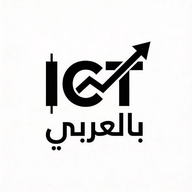
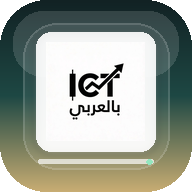
Add files via upload

diff --git a/smart-desk.html b/smart-desk.html
@@ -1,7 +1,9 @@
-<!doctype html><html lang="ar" dir="rtl"><head><meta charset="utf-8"><meta name="viewport" content="width=device-width, initial-scale=1"><meta name="theme-color" content="#111b20"><title>غرفة المتداول الذكية | ICT بالعربي</title><link rel="icon" href="icon-192.png"><link rel="stylesheet" href="smart-desk.css?v=5.4.0"><link rel="stylesheet" href="platform.css?v=5.4.0"><script defer src="platform.js?v=5.4.0"></script><link rel="stylesheet" href="unified-theme.css?v=6.8.5"><link rel="stylesheet" href="bento-glass.css?v=6.8.5"><script defer src="unified-theme.js?v=6.8.3"></script><link rel="stylesheet" href="design-consistency.css?v=6.8.6"><link rel="stylesheet" href="interaction-harmony.css?v=6.8.8"><link rel="stylesheet" href="light-contrast.css?v=6.8.11"></head>
+<!doctype html><html lang="ar" dir="rtl"><head><meta charset="utf-8"><meta name="viewport" content="width=device-width, initial-scale=1"><meta name="theme-color" content="#111b20"><title>غرفة المتداول الذكية | ICT بالعربي</title><link rel="icon" href="icon-192.png"><link rel="stylesheet" href="smart-desk.css?v=5.4.0"><link rel="stylesheet" href="platform.css?v=5.4.0"><script defer src="platform.js?v=5.4.0"></script><link rel="stylesheet" href="unified-theme.css?v=6.8.5"><link rel="stylesheet" href="bento-glass.css?v=6.8.5"><script defer src="unified-theme.js?v=6.8.3"></script><link rel="stylesheet" href="design-consistency.css?v=6.8.6"><link rel="stylesheet" href="interaction-harmony.css?v=6.8.8"><link rel="stylesheet" href="light-contrast.css?v=6.8.11"><link rel="stylesheet" href="ui-icons.css?v=6.8.15">
+</head>
 <body><header class="topbar"><a class="brand" href="./"><img src="logo-original.jpeg" alt="شعار ICT بالعربي"><span>ICT بالعربي <small>SMART TRADER DESK</small></span></a><a class="back" href="./">العودة إلى الرئيسية ←</a></header>
 <main class="wrap"><section class="hero"><span class="eyebrow">ICT بالعربي / PHASE FOUR</span><h1>غرفة المتداول الذكية</h1><p>تابع الأسواق والمنشورات، راجع أداء تداولك، وابحث في محتوى الموقع من مكان واحد.</p><div class="hero-pills"><span>لا تحتاج إلى حساب</span><span>خصوصية محلية لسجل الصفقات</span><span>مصادر المنشورات واضحة</span></div></section>
 <div class="tabs" role="tablist" aria-label="أدوات غرفة المتداول"><button class="active" data-tab="live" aria-selected="true" type="button">◉ غرفة المتابعة</button><button data-tab="dna" aria-selected="false" type="button">▥ Trader DNA</button><button data-tab="assistant" aria-selected="false" type="button">✦ المساعد البحثي</button></div>
 <section id="tab-live" class="tab-panel"><div class="section-heading"><div><span class="eyebrow">ICT LIVE DESK</span><h2>غرفة متابعة الأسواق</h2><p>ملخص من بيانات موقع ICT بالعربي المنشورة، مع تاريخ التحديث لكل مصدر.</p></div><button id="refresh-desk" class="outline" type="button">تحديث البيانات</button></div><div class="status" id="desk-status" role="status">جارٍ فحص مصادر البيانات…</div><div class="metrics" id="desk-metrics"></div><div class="desk-grid"><article class="panel"><div class="panel-title"><h3>أحدث التحليلات والتوصيات</h3><a href="./#recs">عرض الكل ↗</a></div><div id="latest-content" class="feed">جارٍ التحميل…</div></article><article class="panel"><div class="panel-title"><h3>الأخبار الاقتصادية القادمة</h3><a href="./#agenda">الأجندة ↗</a></div><div id="upcoming-events" class="feed">جارٍ التحميل…</div></article><article class="panel"><div class="panel-title"><h3>آخر الأخبار المنشورة</h3><a href="./#news">الأخبار ↗</a></div><div id="latest-news" class="feed">جارٍ التحميل…</div></article><article class="panel"><div class="panel-title"><h3>حركة الأسواق — لقطة دورية</h3><a href="./#markets">الأسواق ↗</a></div><div id="latest-movers" class="feed">جارٍ التحميل…</div></article></div><p class="notice">هذه الغرفة لا ترصد الأسعار Tick-by-Tick ولا ترسل توصيات تداول آلية. مصادر البيانات قد تتأخر؛ تحقق من وقت كل لقطة ومن رمز الأصل قبل اتخاذ القرار.</p></section>
 <section id="tab-dna" class="tab-panel" hidden><div class="section-heading"><div><span class="eyebrow">TRADER DNA</span><h2>بصمة أدائك كمتداول</h2><p>سجل صفقاتك بوحدة R، واكتشف كيف يتغير أداؤك باختلاف الأصل والجلسة والاستراتيجية.</p></div><div class="actions"><button type="button" class="outline" id="export-trades">تصدير CSV</button><button type="button" class="outline" id="backup-trades">نسخة JSON احتياطية</button><label class="upload">استيراد JSON<input type="file" id="import-trades" accept="application/json,.json" hidden></label></div></div><div class="journal-layout"><form id="trade-form" class="panel"><h3>إضافة صفقة إلى سجلي</h3><label>تاريخ الصفقة<input name="date" type="date" required></label><div class="two"><label>الأصل<select name="asset" required><option>XAUUSD</option><option>EURUSD</option><option>GBPUSD</option><option>USDJPY</option><option>NAS100</option><option>SP500</option><option>DJ30</option><option>BTCUSD</option><option>ETHUSD</option><option>WTI</option><option>OTHER</option></select></label><label>الجلسة<select name="session"><option>London</option><option>New York AM</option><option>New York PM</option><option>Asia</option><option>Other</option></select></label></div><div class="two"><label>الاستراتيجية<select name="strategy"><option>Liquidity Sweep + MSS + FVG</option><option>Silver Bullet</option><option>OTE</option><option>Order Block</option><option>Other</option></select></label><label>نتيجة الصفقة (R)<input name="r" type="number" step="0.01" min="-100" max="100" placeholder="مثال: -1 أو 2.5" required></label></div><label>ملاحظة اختيارية<textarea name="note" maxlength="300" rows="3" placeholder="هل التزمت بالخطة؟ ماذا تعلمت؟"></textarea></label><button class="primary" type="submit">حفظ الصفقة</button><p class="micro">احسب R بمقارنة ربح/خسارة الصفقة مع مبلغ المخاطرة المخطط له. لا تتضمن الأرقام تكاليف التداول إلا إذا احتسبتها أنت ضمن النتيجة.</p></form><div class="panel"><h3>تحليل الأداء</h3><div id="dna-metrics" class="metrics"></div><div id="dna-breakdown" class="breakdown"></div><div id="dna-insight" class="insight"></div></div></div><div class="panel"><div class="panel-title"><h3>سجل صفقاتي</h3><span class="muted">محفوظ على هذا الجهاز فقط</span></div><div class="table-wrap"><table><thead><tr><th>التاريخ</th><th>الأصل</th><th>الجلسة</th><th>الاستراتيجية</th><th>النتيجة</th><th></th></tr></thead><tbody id="trade-rows"></tbody></table></div></div><p class="notice">التحليلات وصفية، ولا تستنتج أفضل جلسة أو استراتيجية من عينة صغيرة باعتبارها أفضلية مؤكدة. لا يوجد ربط بالوسيط ولا مزامنة تلقائية بين الأجهزة.</p></section>
-<section id="tab-assistant" class="tab-panel" hidden><div class="section-heading"><div><span class="eyebrow">ICT RESEARCH SEARCH</span><h2>مساعد البحث في محتوى الموقع</h2><p>ابحث باللغة العربية عن أصل أو خبر أو تحليل أو توصية، وستظهر النتائج من ملفات الموقع نفسها.</p></div></div><div class="panel"><form id="search-form" class="searchform"><label class="grow">سؤالك أو كلمات البحث<input id="search-query" required minlength="2" maxlength="150" placeholder="مثال: أحدث تحليل للذهب، أو الأخبار الأمريكية القادمة"></label><button class="primary" type="submit">بحث</button></form><div class="examples"><button type="button" data-query="الذهب">الذهب</button><button type="button" data-query="NFP">NFP</button><button type="button" data-query="NAS100">ناسداك</button><button type="button" data-query="التوصيات">آخر التوصيات</button></div><div class="status" id="search-status">يبحث المساعد في البيانات المنشورة، ولا ينشئ توصيات أو توقعات من تلقاء نفسه.</div><div id="search-results" class="search-results"></div><p class="micro">هذه النسخة **بحث ذكي محلي** وليست روبوت محادثة توليديًا. لا ترسل أسئلتك إلى نموذج AI خارجي؛ لكي نضيف مساعدًا توليديًا لاحقًا نحتاج خادمًا آمنًا، ونظام استرجاع موثّقًا، وحدود استخدام.</p></div></section></main><footer>ICT بالعربي — ينطوي التداول على مخاطر عالية، تداول بحكمة.</footer><script src="smart-desk.js?v=5.4.0" defer></script></body></html>
+<section id="tab-assistant" class="tab-panel" hidden><div class="section-heading"><div><span class="eyebrow">ICT RESEARCH SEARCH</span><h2>مساعد البحث في محتوى الموقع</h2><p>ابحث باللغة العربية عن أصل أو خبر أو تحليل أو توصية، وستظهر النتائج من ملفات الموقع نفسها.</p></div></div><div class="panel"><form id="search-form" class="searchform"><label class="grow">سؤالك أو كلمات البحث<input id="search-query" required minlength="2" maxlength="150" placeholder="مثال: أحدث تحليل للذهب، أو الأخبار الأمريكية القادمة"></label><button class="primary" type="submit">بحث</button></form><div class="examples"><button type="button" data-query="الذهب">الذهب</button><button type="button" data-query="NFP">NFP</button><button type="button" data-query="NAS100">ناسداك</button><button type="button" data-query="التوصيات">آخر التوصيات</button></div><div class="status" id="search-status">يبحث المساعد في البيانات المنشورة، ولا ينشئ توصيات أو توقعات من تلقاء نفسه.</div><div id="search-results" class="search-results"></div><p class="micro">هذه النسخة **بحث ذكي محلي** وليست روبوت محادثة توليديًا. لا ترسل أسئلتك إلى نموذج AI خارجي؛ لكي نضيف مساعدًا توليديًا لاحقًا نحتاج خادمًا آمنًا، ونظام استرجاع موثّقًا، وحدود استخدام.</p></div></section></main><footer>ICT بالعربي — ينطوي التداول على مخاطر عالية، تداول بحكمة.</footer><script src="smart-desk.js?v=5.4.0" defer></script><script defer src="ui-icons.js?v=6.8.15"></script>
+</body></html>

diff --git a/index.html b/index.html
@@ -1,7 +1,9 @@
 <!doctype html>
-<html lang="ar" dir="rtl"><head><meta charset="utf-8"><meta name="viewport" content="width=device-width,initial-scale=1,viewport-fit=cover"><meta name="theme-color" content="#14251f" id="meta-theme"><meta name="description" content="ICT بالعربي — لوحة متداول عربية تجمع الأخبار الاقتصادية والتوصيات والأجندة والأسواق وأدوات ICT."><meta property="og:title" content="ICT بالعربي | مساحة المتداول"><meta property="og:description" content="الأسواق والأجندة والأخبار والتوصيات في مكان واحد"><meta property="og:image" content="icon-512.png"><title>ICT بالعربي | مساحة المتداول</title><link rel="manifest" href="manifest.json"><link rel="icon" href="icon-192.png"><link rel="apple-touch-icon" href="icon-192.png"><link rel="stylesheet" href="style.css?v=5.4.0"><link rel="stylesheet" href="platform.css?v=5.4.0"><script defer src="platform.js?v=5.4.0"></script><link rel="stylesheet" href="typography.css?v=5.5.0"><link rel="stylesheet" href="home-polish.css?v=6.7.0"><link rel="stylesheet" href="notify-luxury.css?v=6.8.0"><link rel="stylesheet" href="unified-theme.css?v=6.8.5"><link rel="stylesheet" href="bento-glass.css?v=6.8.5"><script defer src="unified-theme.js?v=6.8.3"></script><link rel="stylesheet" href="ops-room-fix.css?v=6.8.5"><link rel="stylesheet" href="design-consistency.css?v=6.8.9"><link rel="stylesheet" href="interaction-harmony.css?v=6.8.8"><link rel="stylesheet" href="trading-center-compact.css?v=6.8.10"><link rel="stylesheet" href="light-contrast.css?v=6.8.11"><link rel="stylesheet" href="theme-surfaces.css?v=6.8.14"></head>
+<html lang="ar" dir="rtl"><head><meta charset="utf-8"><meta name="viewport" content="width=device-width,initial-scale=1,viewport-fit=cover"><meta name="theme-color" content="#14251f" id="meta-theme"><meta name="description" content="ICT بالعربي — لوحة متداول عربية تجمع الأخبار الاقتصادية والتوصيات والأجندة والأسواق وأدوات ICT."><meta property="og:title" content="ICT بالعربي | مساحة المتداول"><meta property="og:description" content="الأسواق والأجندة والأخبار والتوصيات في مكان واحد"><meta property="og:image" content="icon-512.png"><title>ICT بالعربي | مساحة المتداول</title><link rel="manifest" href="manifest.json"><link rel="icon" href="icon-192.png"><link rel="apple-touch-icon" href="icon-192.png"><link rel="stylesheet" href="style.css?v=5.4.0"><link rel="stylesheet" href="platform.css?v=5.4.0"><script defer src="platform.js?v=5.4.0"></script><link rel="stylesheet" href="typography.css?v=5.5.0"><link rel="stylesheet" href="home-polish.css?v=6.7.0"><link rel="stylesheet" href="notify-luxury.css?v=6.8.0"><link rel="stylesheet" href="unified-theme.css?v=6.8.5"><link rel="stylesheet" href="bento-glass.css?v=6.8.5"><script defer src="unified-theme.js?v=6.8.3"></script><link rel="stylesheet" href="ops-room-fix.css?v=6.8.5"><link rel="stylesheet" href="design-consistency.css?v=6.8.9"><link rel="stylesheet" href="interaction-harmony.css?v=6.8.8"><link rel="stylesheet" href="trading-center-compact.css?v=6.8.10"><link rel="stylesheet" href="light-contrast.css?v=6.8.11"><link rel="stylesheet" href="theme-surfaces.css?v=6.8.14"><link rel="stylesheet" href="ui-icons.css?v=6.8.15">
+</head>
 <body><a class="skip" href="#app">انتقل إلى المحتوى</a><div class="topline"><div class="wrap topline-inner"><span><span class="live-dot"></span> ICT بالعربي <span class="divider-dot">/</span> مساحة المتداول العربي</span><span id="today"></span></div></div>
 <header class="header"><div class="wrap header-inner"><a class="brand" href="#home" aria-label="ICT بالعربي - الرئيسية"><img src="logo-original.jpeg" alt="شعار ICT بالعربي" width="46" height="46"><span><b class="brand-name">ICT بالعربي</b><small class="brand-sub">MARKET INTELLIGENCE</small></span></a><nav class="navigation" aria-label="القائمة الرئيسية" id="nav"><a href="#home" data-page="home">الرئيسية</a><a href="#markets" data-page="markets">الأسواق</a><a href="#news" data-page="news">الأخبار</a><a href="#recs" data-page="recs">التوصيات</a><a href="#agenda" data-page="agenda">الأجندة</a><a href="#ict" data-page="ict">أدوات ICT</a><a href="#links" data-page="links">تابعنا</a></nav><div class="header-actions"><button class="icon-btn theme-btn" id="theme" type="button" aria-label="تغيير المظهر" title="تغيير المظهر">◐ <span id="theme-label">تلقائي</span></button><button class="install" id="install" type="button" hidden>تثبيت التطبيق</button></div></div></header>
 <main class="wrap page" id="app" tabindex="-1" aria-live="polite"></main>
 <footer><div class="wrap"><div class="footer-row"><a class="brand" href="#home"><img src="logo-original.jpeg" alt="" width="42" height="42"><b>ICT بالعربي</b></a><nav aria-label="روابط التذييل"><a href="#home">الرئيسية</a><a href="#markets">الأسواق</a><a href="#agenda">الأجندة</a><a href="#ict">أدوات ICT</a><a href="#links">تابعنا</a></nav></div><div class="disclaimer">تنبيه المخاطر: المواد المنشورة تعليمية ومعلوماتية وليست نصيحة استثمارية أو ضمانًا للنتائج. التداول بالرافعة المالية ينطوي على مخاطر عالية وقد تخسر رأس مالك. تحقّق من مصادر البيانات وتوقيتها قبل أي قرار.</div><div class="footer-end"><span>© ICT بالعربي • الإصدار 3.5</span><span>أخبار الأسواق • التحليلات • التقويم الاقتصادي</span></div></div></footer>
-<nav class="mobile-bottom" aria-label="التنقل السريع"><a href="#home" data-page="home"><span class="nav-icon">⌂</span>الرئيسية</a><a href="#markets" data-page="markets"><span class="nav-icon">▥</span>الأسواق</a><a href="#agenda" data-page="agenda"><span class="nav-icon">▦</span>الأجندة</a><a href="#recs" data-page="recs"><span class="nav-icon">↗</span>التوصيات</a><a href="#more" data-page="more"><span class="nav-icon">☷</span>المزيد</a></nav><div class="tape" id="tape" dir="ltr" aria-label="شريط الأسواق السفلي"></div><script type="module" src="https://widgets.tradingview-widget.com/w/en/tv-forex-table.js"></script><script type="module" src="https://widgets.tradingview-widget.com/w/en/tv-economic-calendar.js"></script><script src="push-config.js" defer></script><script src="push.js" defer></script><script src="app.js?v=5.4.0" defer></script><script src="home-polish.js?v=6.7.0" defer></script><script src="notify-luxury.js?v=6.8.0" defer></script><script defer src="design-consistency.js?v=6.8.6"></script><script src="trading-center-compact.js?v=6.8.10" defer></script></body></html>
+<nav class="mobile-bottom" aria-label="التنقل السريع"><a href="#home" data-page="home"><span class="nav-icon">⌂</span>الرئيسية</a><a href="#markets" data-page="markets"><span class="nav-icon">▥</span>الأسواق</a><a href="#agenda" data-page="agenda"><span class="nav-icon">▦</span>الأجندة</a><a href="#recs" data-page="recs"><span class="nav-icon">↗</span>التوصيات</a><a href="#more" data-page="more"><span class="nav-icon">☷</span>المزيد</a></nav><div class="tape" id="tape" dir="ltr" aria-label="شريط الأسواق السفلي"></div><script type="module" src="https://widgets.tradingview-widget.com/w/en/tv-forex-table.js"></script><script type="module" src="https://widgets.tradingview-widget.com/w/en/tv-economic-calendar.js"></script><script src="push-config.js" defer></script><script src="push.js" defer></script><script src="app.js?v=5.4.0" defer></script><script src="home-polish.js?v=6.7.0" defer></script><script src="notify-luxury.js?v=6.8.0" defer></script><script defer src="design-consistency.js?v=6.8.6"></script><script src="trading-center-compact.js?v=6.8.10" defer></script><script defer src="ui-icons.js?v=6.8.15"></script>
+</body></html>

diff --git a/ui-icons.js b/ui-icons.js
@@ -1,0 +1,127 @@
+
+(()=>{
+  'use strict';
+  const NS='http://www.w3.org/2000/svg';
+  const ICONS={
+    home:'<path d="M3.5 9.2 12 2.8l8.5 6.4v8.3a1 1 0 0 1-1 1h-5.3v-5h-4.4v5H4.5a1 1 0 0 1-1-1z"/><path d="M8.5 18.5v-5h7v5"/>',
+    markets:'<path d="M4 17.5V6.5"/><path d="M10 17.5V3.5"/><path d="M16 17.5v-8"/><path d="M21 17.5V8.8"/><path d="M2.8 18.5h18.4"/>',
+    news:'<rect x="3.5" y="4.5" width="17" height="14" rx="2.5"/><path d="M7 8h3.7v6H7z"/><path d="M12.5 8h5.5M12.5 11h5.5M7 15h11"/>',
+    recs:'<path d="M4 17 10.2 10.8l3.3 3.3L20 7.6"/><path d="M15.7 7.6H20v4.3"/>',
+    agenda:'<rect x="4" y="5" width="16" height="15" rx="2.5"/><path d="M8 3.5v3M16 3.5v3M4 9.5h16"/><path d="M8.3 13h3.4M8.3 16h6.7"/>',
+    ict:'<path d="M5 18.5 12 5.5l7 13"/><path d="M8.8 14.7h6.4"/>',
+    links:'<path d="M10 14a3.5 3.5 0 0 1 0-5l2-2a3.5 3.5 0 0 1 5 5l-1 1"/><path d="M14 10a3.5 3.5 0 0 1 0 5l-2 2a3.5 3.5 0 0 1-5-5l1-1"/>',
+    more:'<circle cx="5" cy="12" r="1.5"/><circle cx="12" cy="12" r="1.5"/><circle cx="19" cy="12" r="1.5"/>',
+    workspace:'<path d="M4 5.2h16a1 1 0 0 1 1 1v10.6a1 1 0 0 1-1 1H4a1 1 0 0 1-1-1V6.2a1 1 0 0 1 1-1Z"/><path d="M3 9.5h18"/><path d="M8 13h4M8 16h7"/>',
+    intelligence:'<path d="M12 4.5c4 0 7.2 3.2 7.2 7.2S16 18.9 12 18.9 4.8 15.7 4.8 11.7 8 4.5 12 4.5Z"/><path d="M12 2.7v2.1M12 19.2v2.1M21 11.9h-2.1M5.1 11.9H3"/><path d="m17.1 6.8-1.5 1.5M8.4 15.5l-1.5 1.5M17.1 17l-1.5-1.5M8.4 8.3 6.9 6.8"/><circle cx="12" cy="11.9" r="2.5"/>',
+    research:'<path d="M10 4.5h8a1.5 1.5 0 0 1 1.5 1.5v12a1.5 1.5 0 0 1-1.5 1.5H6A1.5 1.5 0 0 1 4.5 18V6A1.5 1.5 0 0 1 6 4.5h1"/><path d="M8.2 4.5a1.8 1.8 0 1 1 3.6 0"/><path d="M8 10h8M8 13h8M8 16h5"/>',
+    smartdesk:'<rect x="3.8" y="4.5" width="16.4" height="14" rx="2.6"/><path d="M8 20.3h8"/><path d="M9 8.8h6M7.8 12h8.4M9.6 15.2h4.8"/>',
+    dashboard:'<rect x="4" y="4" width="7" height="7" rx="1.5"/><rect x="13" y="4" width="7" height="4.5" rx="1.5"/><rect x="13" y="10.5" width="7" height="9.5" rx="1.5"/><rect x="4" y="13" width="7" height="7" rx="1.5"/>',
+    guardian:'<path d="M12 3.5 19 6v5.1c0 4.2-2.8 7-7 9.4-4.2-2.4-7-5.2-7-9.4V6z"/><path d="m9.2 11.7 1.9 1.9 3.7-4"/>',
+    checklist:'<path d="M6 7.8 7.5 9.3 10 6.8"/><path d="M12.5 8h5.5"/><path d="M6 12.3l1.5 1.5 2.5-2.5"/><path d="M12.5 12.5h5.5"/><path d="M6 16.8l1.5 1.5 2.5-2.5"/><path d="M12.5 17h5.5"/>',
+    radar:'<circle cx="12" cy="12" r="7.5"/><path d="M12 12 17 9"/><path d="M12 4.5v15"/><path d="M4.5 12h15"/>',
+    xray:'<path d="M6 5.5 18 18.5M18 5.5 6 18.5"/><rect x="4" y="4" width="16" height="16" rx="3"/>',
+    strategy:'<path d="M4.5 17.5 10 12l3 3 6.5-7"/><path d="M14.7 8H19v4.3"/>',
+    replay:'<path d="M7.5 7.3 4.5 10l3 2.7"/><path d="M4.5 10h7.2a4.8 4.8 0 0 1 0 9.6H9.5"/>',
+    patterns:'<path d="M5 16.5h3.5v-6H5zM10.2 16.5h3.5v-10h-3.5zM15.4 16.5h3.5v-3.5h-3.5z"/>',
+    live:'<path d="M5 12h3l1.5-3 3 6 2.1-4H19"/><circle cx="4" cy="12" r="1"/><circle cx="20" cy="12" r="1"/>',
+    dna:'<path d="M8 4.5c4 2 4 13 8 15"/><path d="M16 4.5c-4 2-4 13-8 15"/><path d="M8.6 8h6.8M7.8 12h8.4M8.6 16h6.8"/>',
+    assistant:'<path d="M12 4.2 13.8 8l4.2.5-3.1 2.9.8 4.2L12 13.6 8.3 15.6l.8-4.2L6 8.5 10.2 8z"/>',
+    back:'<path d="M14.5 6 8.5 12l6 6"/><path d="M9 12h10"/>',
+    theme:'<path d="M20 14.2A7.7 7.7 0 0 1 9.8 4a8.7 8.7 0 1 0 10.2 10.2Z"/>',
+    install:'<path d="M12 4v10"/><path d="m8.5 10.5 3.5 3.5 3.5-3.5"/><path d="M5 18.5h14"/>'
+  };
+  function makeIcon(name, cls='uii-svg'){
+    const wrap=document.createElement('span');
+    wrap.className=cls;
+    const svg=document.createElementNS(NS,'svg');
+    svg.setAttribute('viewBox','0 0 24 24');
+    svg.setAttribute('fill','none');
+    svg.setAttribute('stroke','currentColor');
+    svg.setAttribute('stroke-width','1.85');
+    svg.setAttribute('stroke-linecap','round');
+    svg.setAttribute('stroke-linejoin','round');
+    svg.setAttribute('aria-hidden','true');
+    svg.innerHTML=ICONS[name]||ICONS.more;
+    wrap.append(svg);
+    return wrap;
+  }
+  function boxed(name, kind='uii-inlinebox'){
+    const b=document.createElement('span');
+    b.className=kind;
+    b.append(makeIcon(name));
+    return b;
+  }
+  function cleanLabel(el){
+    if(!el)return;
+    const nodes=[...el.childNodes];
+    nodes.forEach(n=>{
+      if(n.nodeType===3){ n.nodeValue=n.nodeValue.replace(/^[\s⌂▥▦↗☷◐◉◈✦◎←]+/u,'').trimStart(); }
+    });
+  }
+  function prependOnce(el, marker, node){ if(!el || el.querySelector('.'+marker)) return; node.classList.add(marker); el.prepend(node); }
+
+  const topNavMap={home:'home',markets:'markets',news:'news',recs:'recs',agenda:'agenda',ict:'ict',links:'links',more:'more'};
+  document.querySelectorAll('.navigation a[data-page], .topbar nav a, .ws-nav a').forEach(a=>{
+    let key=a.dataset.page || '';
+    if(!key){
+      const href=a.getAttribute('href')||'';
+      if(href.includes('workspace')) key='workspace';
+      else if(href.includes('intelligence')) key='intelligence';
+      else if(href.includes('research')) key='research';
+      else if(href.includes('smart-desk')) key='smartdesk';
+      else if(href.includes('#agenda')) key='agenda';
+      else if(href.includes('#recs')) key='recs';
+      else if(href.includes('#ict')) key='ict';
+      else key='home';
+    }
+    cleanLabel(a);
+    prependOnce(a,'uii-linkmark',boxed(topNavMap[key]||key,'uii-inlinebox'));
+  });
+
+  document.querySelectorAll('.mobile-bottom a[data-page]').forEach(a=>{
+    const key=topNavMap[a.dataset.page] || a.dataset.page || 'more';
+    const old=a.querySelector('.nav-icon'); if(old) old.remove();
+    prependOnce(a,'uii-mobilemark',boxed(key,'uii-iconbox'));
+  });
+
+  const themeBtn=document.getElementById('theme');
+  if(themeBtn){
+    const txt=themeBtn.firstChild; // remove stray text icon if any
+    [...themeBtn.childNodes].forEach(n=>{ if(n.nodeType===3) n.nodeValue=''; });
+    prependOnce(themeBtn,'uii-themebox',boxed('theme','uii-inlinebox'));
+  }
+  const installBtn=document.getElementById('install');
+  if(installBtn) prependOnce(installBtn,'uii-installbox',boxed('install','uii-inlinebox'));
+
+  document.querySelectorAll('.go-home,.ws-back,.back').forEach(a=>prependOnce(a,'uii-backbox',boxed('back','uii-inlinebox')));
+
+  document.querySelectorAll('.ict54-hub-links a').forEach(a=>{
+    let key='more'; const href=a.getAttribute('href')||'';
+    if(href.includes('#home')) key='home';
+    else if(href.includes('workspace')) key='workspace';
+    else if(href.includes('intelligence')) key='intelligence';
+    else if(href.includes('research')) key='research';
+    else if(href.includes('smart-desk')) key='smartdesk';
+    else if(href.includes('#recs')) key='recs';
+    else if(href.includes('#agenda')) key='agenda';
+    prependOnce(a,'uii-hublink',boxed(key,'ict54-link-icon'));
+  });
+
+  const tabMap={dashboard:'dashboard',guardian:'guardian',checklist:'checklist',radar:'radar',xray:'xray',news:'news',strategy:'strategy',replay:'replay',patterns:'patterns',live:'live',dna:'dna',assistant:'assistant'};
+  document.querySelectorAll('[data-tab]').forEach(btn=>{
+    const key=tabMap[btn.dataset.tab] || 'more';
+    cleanLabel(btn);
+    prependOnce(btn,'uii-tabmark',boxed(key,'uii-tabbox'));
+  });
+
+  document.querySelectorAll('.ict-center-group').forEach(group=>{
+    const title=(group.querySelector('strong')?.textContent||'').trim();
+    let key='more';
+    if(title.includes('الأسواق')) key='markets';
+    else if(title.includes('المختبرات')) key='research';
+    else if(title.includes('إدارة')) key='workspace';
+    else if(title.includes('التعليم')) key='ict';
+    const holder=group.querySelector('.ict-center-icon');
+    if(holder){ holder.textContent=''; if(!holder.querySelector('.uii-svg')) holder.append(makeIcon(key)); }
+  });
+})();

diff --git a/intelligence.html b/intelligence.html
@@ -4,7 +4,8 @@
 <meta name="theme-color" content="#111c20"><meta name="description" content="مختبر ذكاء الأسواق في ICT بالعربي — رادار المتابعة وأشعة السوق ومختبر الأخبار">
 <title>مختبر ذكاء الأسواق | ICT بالعربي</title>
 <link rel="icon" href="icon-192.png"><link rel="stylesheet" href="intelligence.css?v=5.4.0"><script defer src="intelligence.js?v=5.4.0"></script>
-<link rel="stylesheet" href="platform.css?v=5.4.0"><script defer src="platform.js?v=5.4.0"></script><link rel="stylesheet" href="unified-theme.css?v=6.8.5"><link rel="stylesheet" href="bento-glass.css?v=6.8.5"><script defer src="unified-theme.js?v=6.8.3"></script><link rel="stylesheet" href="design-consistency.css?v=6.8.6"><link rel="stylesheet" href="interaction-harmony.css?v=6.8.8"><link rel="stylesheet" href="light-contrast.css?v=6.8.11"></head><body>
+<link rel="stylesheet" href="platform.css?v=5.4.0"><script defer src="platform.js?v=5.4.0"></script><link rel="stylesheet" href="unified-theme.css?v=6.8.5"><link rel="stylesheet" href="bento-glass.css?v=6.8.5"><script defer src="unified-theme.js?v=6.8.3"></script><link rel="stylesheet" href="design-consistency.css?v=6.8.6"><link rel="stylesheet" href="interaction-harmony.css?v=6.8.8"><link rel="stylesheet" href="light-contrast.css?v=6.8.11"><link rel="stylesheet" href="ui-icons.css?v=6.8.15">
+</head><body>
 <header class="topbar"><div class="wrap header-inner"><a href="./#home" class="brand"><img src="logo-original.jpeg" width="43" height="43" alt="ICT بالعربي"><span><strong>ICT بالعربي</strong><small>MARKET INTELLIGENCE LAB</small></span></a><nav><a href="./#home">الرئيسية</a><a href="./#agenda">الأجندة</a><a href="./#recs">التحليلات</a><a href="workspace.html">مساحتي</a></nav><a class="go-home" href="./#home">العودة للموقع ↗</a></div></header>
 <main class="wrap"><section class="hero"><div><span class="eyebrow">ICT بالعربي / MARKET INTELLIGENCE 5.1</span><h1>مختبر ذكاء الأسواق</h1><p>رادار للمتابعة، مقارنة بين الأسواق، وتوثيق رد فعل الأخبار — أدوات معلوماتية تساعدك على التحضير والتحليل بوضوح، دون اختراع إشارات تداول.</p></div><div class="hero-note"><span class="signal-dot"></span><div><strong>المصدر والتوقيت أولًا</strong><small>البيانات من مصادر متفاوتة وقد تكون دورية أو متأخرة</small></div></div></section>
 <div class="notice" role="note">تنبيه: الرادار لا يكشف ICT Liquidity Sweep أو MSS أو FVG تلقائيًا. نتيجة قائمة التحقق يحددها المتداول من الشارت. تغيرات الأسعار في اللقطات الدورية لا تعادل بثًا لحظيًا، ونتائج الأخبار لا تتنبأ باتجاه السعر.</div>
@@ -16,4 +17,5 @@
 <div class="card controls"><label>السيناريو <select id="xray-set"><option value="gold">الذهب والدولار والعوائد</option><option value="risk">ناسداك وS&P 500 والبيتكوين</option><option value="fx">اليورو والإسترليني والدولار</option><option value="energy">النفط والدولار والأسهم</option></select></label><label>الرمز المعروض <select id="xray-symbol"></select></label><a id="xray-open" class="primary link-button" target="_blank" rel="noopener noreferrer">فتح شارت TradingView ↗</a></div><div id="xray-context" class="context-note"></div><div class="xray-grid"><div class="card chart-card"><div class="card-head"><h3>الشارت المختار</h3><span id="xray-code" class="tag" dir="ltr"></span></div><div class="chart-frame" id="xray-widget"></div><p class="micro-note">الشارت المضمّن تابع لـTradingView وقد يعرض بيانات متأخرة بحسب المصدر والترخيص. لا نقرأ أرقامه برمجيًا ولا نستخدمها لإصدار إشارات آلية.</p></div><div class="card"><div class="card-head"><h3>لوحة المقارنة</h3><span class="tag">مصادر مستقلة</span></div><div id="xray-peers" class="peers"></div><h3 class="spaced">ماذا أبحث عنه؟</h3><div id="xray-questions" class="xray-questions"></div><p class="micro-note">الارتباطات تتغير مع الوقت؛ التحرك المتزامن لا يثبت سببًا مباشرًا ولا يمثل فرصة تداول بمفرده.</p></div></div></section>
 <section id="panel-news" class="panel" role="tabpanel" hidden><div class="section-head"><div><span class="eyebrow">NEWS REACTION LAB</span><h2>مختبر رد فعل الأخبار</h2><p>قارن النتيجة الفعلية بالتوقعات، وسجّل حركة الأصل بعد الخبر من الشارت.</p></div><div id="news-feed-status" class="source-status">جارٍ فحص الأجندة…</div></div><div class="news-layout"><div class="card"><div class="card-head"><h3>اختيار الخبر</h3><span class="tag">الأحداث المتاحة فقط</span></div><label class="field">الخبر الاقتصادي <select id="news-select"></select></label><div id="event-review" class="event-review"></div><div id="surprise" class="surprise" role="status"></div><p class="micro-note">«أعلى/أقل من المتوقع» مقارنة حسابية فقط؛ معناها الاقتصادي يعتمد على نوع المؤشر (مثل البطالة مقابل الوظائف)، والمراجعات والتسعير المسبق.</p></div><div class="card"><div class="card-head"><h3>سجل تفاعل السوق</h3><span class="tag">إدخال يدوي</span></div><form id="reaction-form"><label class="field">الأصل<select name="asset" id="reaction-asset"><option>XAUUSD</option><option>EURUSD</option><option>NAS100</option><option>SP500</option><option>BTCUSD</option><option>USDJPY</option><option>WTI</option></select></label><div class="field-grid"><label class="field">السعر لحظة الخبر<input name="before" inputmode="decimal" type="number" step="any" min="0.00000001" placeholder="0.00" required></label><label class="field">السعر بعد الخبر<input name="after" inputmode="decimal" type="number" step="any" min="0.00000001" placeholder="0.00" required></label></div><label class="field">فترة القياس<select name="window"><option value="1">دقيقة</option><option value="5">5 دقائق</option><option value="15" selected>15 دقيقة</option><option value="30">30 دقيقة</option><option value="60">60 دقيقة</option></select></label><label class="field">ملاحظات (اختياري)<textarea name="notes" maxlength="180" rows="2" placeholder="سحب سيولة، انعكاس، ارتفاع عوائد…"></textarea></label><button type="submit" class="primary full">حفظ حركة السعر</button></form><div id="reaction-result" class="message" role="status"></div><p class="micro-note">يُحفظ السجل على جهازك فقط؛ اكتب أسعار الأصل نفسه ومن المصدر نفسه وفي التوقيتين الصحيحين.</p></div></div><div class="card"><div class="card-head"><h3>آخر الملاحظات المحفوظة</h3><button type="button" id="export-reactions" class="ghost">تصدير CSV</button></div><div id="reaction-history" class="history"></div></div></section>
 </main><footer class="wrap footer">ينطوي التداول على مخاطر عالية، تداول بحكمة. © ICT بالعربي · <a href="./#home">العودة للموقع</a></footer>
+<script defer src="ui-icons.js?v=6.8.15"></script>
 </body></html>

diff --git a/research.html b/research.html
@@ -1,7 +1,8 @@
 <!doctype html><html lang="ar" dir="rtl"><head>
 <meta charset="utf-8"><meta name="viewport" content="width=device-width, initial-scale=1, viewport-fit=cover"><meta name="theme-color" content="#111c20">
 <meta name="description" content="مختبر أبحاث ICT بالعربي: اختبار استراتيجيات على بيانات شموع، إعادة تشغيل تاريخية ومكتبة نماذج شخصية."><title>مختبر الأبحاث التاريخية | ICT بالعربي</title>
-<link rel="icon" href="icon-192.png"><link rel="stylesheet" href="research.css?v=5.4.0"><script defer src="research.js?v=5.4.0"></script><link rel="stylesheet" href="platform.css?v=5.4.0"><script defer src="platform.js?v=5.4.0"></script><link rel="stylesheet" href="unified-theme.css?v=6.8.5"><link rel="stylesheet" href="bento-glass.css?v=6.8.5"><script defer src="unified-theme.js?v=6.8.3"></script><link rel="stylesheet" href="design-consistency.css?v=6.8.6"><link rel="stylesheet" href="interaction-harmony.css?v=6.8.8"><link rel="stylesheet" href="light-contrast.css?v=6.8.11"></head><body>
+<link rel="icon" href="icon-192.png"><link rel="stylesheet" href="research.css?v=5.4.0"><script defer src="research.js?v=5.4.0"></script><link rel="stylesheet" href="platform.css?v=5.4.0"><script defer src="platform.js?v=5.4.0"></script><link rel="stylesheet" href="unified-theme.css?v=6.8.5"><link rel="stylesheet" href="bento-glass.css?v=6.8.5"><script defer src="unified-theme.js?v=6.8.3"></script><link rel="stylesheet" href="design-consistency.css?v=6.8.6"><link rel="stylesheet" href="interaction-harmony.css?v=6.8.8"><link rel="stylesheet" href="light-contrast.css?v=6.8.11"><link rel="stylesheet" href="ui-icons.css?v=6.8.15">
+</head><body>
 <header class="topbar"><div class="wrap header-inner"><a href="./#home" class="brand"><img src="logo-original.jpeg" width="43" height="43" alt="ICT بالعربي"><span><strong>ICT بالعربي</strong><small>ICT RESEARCH LAB</small></span></a><nav><a href="./#home">الرئيسية</a><a href="intelligence.html">ذكاء الأسواق</a><a href="workspace.html">مساحتي</a></nav><a class="go-home" href="./#home">العودة للموقع ↗</a></div></header>
 <main class="wrap">
 <section class="hero"><div><span class="eyebrow">ICT بالعربي / RESEARCH LAB 5.2</span><h1>مختبر الأبحاث التاريخية</h1><p>اختبر قواعد تداول قابلة للقياس، وأعد تشغيل الشموع بدون كشف المستقبل، ثم وثّق نماذجك في مكتبة شخصية.</p></div><div class="hero-note"><span class="signal-dot"></span><div><strong>بياناتك أولًا</strong><small>معالجة محلية لملف CSV دون رفعه إلى خادم</small></div></div></section>
@@ -25,4 +26,5 @@
 <section class="panel" id="panel-patterns" role="tabpanel" hidden><div class="section-head"><div><span class="eyebrow">ICT PATTERN LIBRARY</span><h2>مكتبة نماذجك العملية</h2><p>وثّق أمثلة حقيقية من مراجعتك، بما فيها النماذج الفاشلة، واحفظها محليًا.</p></div><span class="source-status">أرشيف شخصي</span></div>
 <div class="lab-grid"><form id="pattern-form" class="card"><div class="card-head"><h3>إضافة نموذج</h3><span class="tag">بدون نشر عام</span></div><div class="field-grid"><label class="field">الأصل<input name="asset" required maxlength="18" placeholder="XAUUSD"></label><label class="field">الإطار الزمني<input name="timeframe" required maxlength="15" placeholder="15m"></label><label class="field">تاريخ المثال<input type="date" name="date" required></label><label class="field">نوع النموذج<select name="setup"><option>Liquidity Sweep + MSS</option><option>FVG Retracement</option><option>Silver Bullet</option><option>Order Block</option><option>نموذج ICT آخر</option></select></label><label class="field">النتيجة<select name="outcome"><option>قيد الدراسة</option><option>ناجح</option><option>فاشل</option><option>ملغى</option></select></label><label class="field">رابط شارت (اختياري)<input type="url" name="chart" placeholder="https://www.tradingview.com/..." maxlength="400"></label></div><label class="field">ملاحظاتك<textarea name="notes" required maxlength="1000" rows="4" placeholder="ما الذي تحقق؟ ما سبب فشل أو نجاح النموذج؟"></textarea></label><button class="primary" type="submit">حفظ النموذج</button><div id="pattern-message" role="status" class="message"></div></form>
 <div class="card"><div class="card-head"><h3>أرشيف الأمثلة</h3><span id="pattern-count" class="tag">0 نموذج</span></div><div class="pattern-toolbar"><label class="field">تصفية النتيجة<select id="pattern-filter"><option value="all">الكل</option><option>ناجح</option><option>فاشل</option><option>قيد الدراسة</option><option>ملغى</option></select></label><button type="button" class="ghost" id="pattern-export">تصدير JSON</button><label class="ghost import-label">استيراد JSON<input type="file" id="pattern-import" accept=".json,application/json" hidden></label></div><div id="pattern-list" class="pattern-list">لا توجد أمثلة محفوظة بعد.</div></div></div>
-</section></main><footer class="wrap footer">ينطوي التداول على مخاطر عالية، تداول بحكمة. © ICT بالعربي · <a href="./#home">الرئيسية</a></footer></body></html>
+</section></main><footer class="wrap footer">ينطوي التداول على مخاطر عالية، تداول بحكمة. © ICT بالعربي · <a href="./#home">الرئيسية</a></footer><script defer src="ui-icons.js?v=6.8.15"></script>
+</body></html>

diff --git a/ui-icons.css b/ui-icons.css
@@ -1,0 +1,133 @@
+
+:root{
+  --uii-nav-size: 1.05rem;
+  --uii-box: 1.95rem;
+  --uii-box-sm: 1.7rem;
+  --uii-radius: 14px;
+  --uii-shadow: 0 10px 22px rgba(0,0,0,.08);
+}
+:root[data-theme="dark"]{
+  --uii-ink: #dff5eb;
+  --uii-muted: #b8d5ca;
+  --uii-accent: #91e1b8;
+  --uii-bg: linear-gradient(135deg, rgba(92,176,145,.18), rgba(30,58,54,.12));
+  --uii-bg-strong: linear-gradient(135deg, rgba(93,178,146,.23), rgba(34,66,61,.15));
+  --uii-border: rgba(171,225,198,.18);
+  --uii-glow: 0 1px 0 rgba(255,255,255,.07) inset, 0 16px 30px rgba(0,0,0,.16);
+}
+:root[data-theme="light"]{
+  --uii-ink: #274244;
+  --uii-muted: #566b6b;
+  --uii-accent: #1b7d6f;
+  --uii-bg: linear-gradient(135deg, rgba(255,255,255,.72), rgba(246,237,220,.95));
+  --uii-bg-strong: linear-gradient(135deg, rgba(255,255,255,.9), rgba(244,233,211,.98));
+  --uii-border: rgba(164,146,123,.18);
+  --uii-glow: 0 1px 0 rgba(255,255,255,.76) inset, 0 14px 24px rgba(80,63,40,.08);
+}
+
+.uii-iconbox,
+.uii-inlinebox,
+.uii-tabbox,
+.ict54-link-icon,
+.ict-center-icon{
+  display:inline-flex;
+  align-items:center;
+  justify-content:center;
+  flex:none;
+  color:var(--uii-accent);
+}
+.uii-iconbox,
+.ict54-link-icon,
+.ict-center-icon{
+  width:var(--uii-box);
+  height:var(--uii-box);
+  border-radius:var(--uii-radius);
+  background:var(--uii-bg);
+  border:1px solid var(--uii-border);
+  box-shadow:var(--uii-glow);
+  backdrop-filter: blur(12px);
+  -webkit-backdrop-filter: blur(12px);
+}
+.uii-tabbox{
+  width:1.75rem;
+  height:1.75rem;
+  border-radius:12px;
+  background:var(--uii-bg);
+  border:1px solid var(--uii-border);
+  box-shadow:var(--uii-glow);
+  margin-inline-end:.5rem;
+}
+.uii-inlinebox{width:1.2rem;height:1.2rem}
+.uii-svg{width:1.1rem;height:1.1rem;display:block}
+.uii-tabbox .uii-svg{width:1rem;height:1rem}
+.uii-iconbox .uii-svg,
+.ict54-link-icon .uii-svg,
+.ict-center-icon .uii-svg{width:1.02rem;height:1.02rem}
+
+/* Main header nav */
+.header .navigation a,
+.topbar nav a,
+.ws-nav a{
+  display:inline-flex;
+  align-items:center;
+  gap:.48rem;
+}
+.header .navigation a .uii-inlinebox,
+.topbar nav a .uii-inlinebox,
+.ws-nav a .uii-inlinebox{
+  width:1rem;height:1rem;color:var(--uii-accent);
+}
+.header .navigation a .uii-svg,
+.topbar nav a .uii-svg,
+.ws-nav a .uii-svg{width:.95rem;height:.95rem}
+
+/* Mobile bottom navigation */
+.mobile-bottom a{
+  display:flex; flex-direction:column; align-items:center; justify-content:center; gap:.32rem;
+}
+.mobile-bottom .nav-icon{display:none!important}
+.mobile-bottom .uii-iconbox{width:2rem;height:2rem;border-radius:16px}
+.mobile-bottom a span:last-child{line-height:1.1}
+
+/* Theme/install buttons */
+.theme-btn,.install{display:inline-flex;align-items:center;gap:.5rem}
+.theme-btn .uii-inlinebox,.install .uii-inlinebox{color:var(--uii-accent)}
+
+/* Shared hub bar */
+.ict54-hub a{display:inline-flex;align-items:center;gap:.45rem}
+.ict54-link-icon{width:1.6rem;height:1.6rem;border-radius:11px}
+.ict54-link-icon .uii-svg{width:.88rem;height:.88rem}
+
+/* Trading center compact groups */
+html[data-ict-page="home"] #app .ict-center-group summary{display:flex;align-items:center;gap:.65rem}
+html[data-ict-page="home"] #app .ict-center-icon{font-size:0!important;line-height:0}
+html[data-ict-page="home"] #app .ict-center-icon .uii-svg{width:1rem;height:1rem}
+
+/* Tab buttons / segmented controls */
+.ws-tab,.tab,.tabs button{display:inline-flex;align-items:center;justify-content:center}
+.ws-tab .uii-tabbox,.tab .uii-tabbox,.tabs button .uii-tabbox{order:-1}
+
+/* Smart desk panels and cards that still have text icons */
+.tool-card .tool-glyph,
+.ws-module-icon,
+.public-notify-icon{
+  font-size:0!important;
+}
+
+/* Page chrome links */
+.go-home,.ws-back,.back{display:inline-flex;align-items:center;gap:.42rem}
+.go-home .uii-inlinebox,.ws-back .uii-inlinebox,.back .uii-inlinebox{color:var(--uii-accent)}
+
+/* Light mode better contrast on icon surfaces */
+:root[data-theme="light"] .mobile-bottom .uii-iconbox,
+:root[data-theme="light"] .ict54-link-icon,
+:root[data-theme="light"] .ict-center-icon,
+:root[data-theme="light"] .uii-tabbox{
+  background:var(--uii-bg-strong);
+}
+
+@media (max-width:700px){
+  .header .navigation a .uii-inlinebox,
+  .topbar nav a .uii-inlinebox,
+  .ws-nav a .uii-inlinebox{display:none}
+}

diff --git a/workspace.html b/workspace.html
@@ -9,7 +9,8 @@
   <link rel="icon" href="icon-192.png">
   <link rel="stylesheet" href="workspace.css?v=5.4.0">
   <script defer src="workspace.js?v=5.4.0"></script>
-<link rel="stylesheet" href="platform.css?v=5.4.0"><script defer src="platform.js?v=5.4.0"></script><link rel="stylesheet" href="unified-theme.css?v=6.8.5"><link rel="stylesheet" href="bento-glass.css?v=6.8.5"><script defer src="unified-theme.js?v=6.8.3"></script><link rel="stylesheet" href="design-consistency.css?v=6.8.6"><link rel="stylesheet" href="interaction-harmony.css?v=6.8.8"><link rel="stylesheet" href="light-contrast.css?v=6.8.11"></head>
+<link rel="stylesheet" href="platform.css?v=5.4.0"><script defer src="platform.js?v=5.4.0"></script><link rel="stylesheet" href="unified-theme.css?v=6.8.5"><link rel="stylesheet" href="bento-glass.css?v=6.8.5"><script defer src="unified-theme.js?v=6.8.3"></script><link rel="stylesheet" href="design-consistency.css?v=6.8.6"><link rel="stylesheet" href="interaction-harmony.css?v=6.8.8"><link rel="stylesheet" href="light-contrast.css?v=6.8.11"><link rel="stylesheet" href="ui-icons.css?v=6.8.15">
+</head>
 <body>
   <header class="ws-header">
     <div class="ws-shell ws-header-content">
@@ -74,5 +75,6 @@
   </main>
   <footer class="ws-footer"><div class="ws-shell">ينطوي التداول على مخاطر عالية، تداول بحكمة · ICT بالعربي</div></footer>
   <div id="ws-toast" class="ws-toast" role="status" aria-live="polite" hidden></div>
+<script defer src="ui-icons.js?v=6.8.15"></script>
 </body>
 </html>

diff --git a/README_AR.md b/README_AR.md
@@ -1,10 +1,37 @@
-# ICT بالعربي 6.8.14 — طبقة لون الأخبار 70%
+# ICT بالعربي 6.8.15 — تحديث الأيقونات وتوحيدها
 
-تحديث صغير مبني على 6.8.13.
+هذا التحديث مخصص لتحسين **أيقونات الواجهة** وتوحيدها في الصفحة الرئيسية وباقي الأقسام، مع إضافة أيقونات PWA أحدث.
 
-- أصبح لون الثيم في التدرج فوق صور «أبرز الأخبار الاقتصادية» بقوة 70% في الداكن والسكري، بدل 60–64%.
-- تبقى الصورة الأصلية ظاهرة تحت التدرج، مع المحافظة على تباين النصوص.
-- لم يتم تغيير تذييل الموقع، أو شريط Market Watch السفلي، أو Hover، أو مركز التداول، أو أي ملفات JavaScript.
+## ما الذي تم تحسينه؟
+- استبدال الرموز القديمة/المتفاوتة بأيقونات SVG حديثة وموحدة.
+- توحيد أيقونات:
+  - القائمة الرئيسية.
+  - شريط التنقل السفلي على الموبايل.
+  - شريط «أدوات المتداول» بين الصفحات.
+  - تبويبات الصفحات الداخلية (مساحتي / ذكاء الأسواق / مختبر الأبحاث / غرفة المتداول).
+  - مجموعات «مركز التداول» في الصفحة الرئيسية.
+- إضافة **أيقونات تطبيق موبايل** أحدث (`icon-192.png` و `icon-512.png`).
+- الحفاظ على روح الثيمين الحاليين الداكن والسكري من خلال ألوان متوافقة مع الثيم.
 
-## طريقة الرفع
-ارفع `theme-surfaces.css` و`index.html` من هذا التحديث إلى جذر مستودع GitHub مع الاستبدال. ثم حدّث الصفحة.
+## الملفات المضافة/المستبدلة
+- `index.html`
+- `workspace.html`
+- `intelligence.html`
+- `research.html`
+- `smart-desk.html`
+- `ui-icons.css`  ← ملف جديد
+- `ui-icons.js`   ← ملف جديد
+- `icon-192.png`
+- `icon-512.png`
+
+## طريقة التركيب
+1. افتح مستودع GitHub الخاص بالموقع.
+2. ارفع الملفات المذكورة أعلاه إلى جذر المشروع.
+3. وافق على **استبدال** الملفات القديمة عند الطلب.
+4. تأكد أن الملفين الجديدين `ui-icons.css` و `ui-icons.js` تم رفعهما فعلًا.
+5. انتظر تحديث GitHub Pages ثم حدّث الموقع تحديثًا قويًا (Ctrl+F5).
+
+## ملاحظة
+إذا كانت نسخة قديمة من الأيقونات ما زالت تظهر على الهاتف، جرّب:
+- حذف اختصار التطبيق ثم إعادة تثبيته.
+- أو مسح Cache المتصفح / Service Worker ثم إعادة فتح الموقع.
